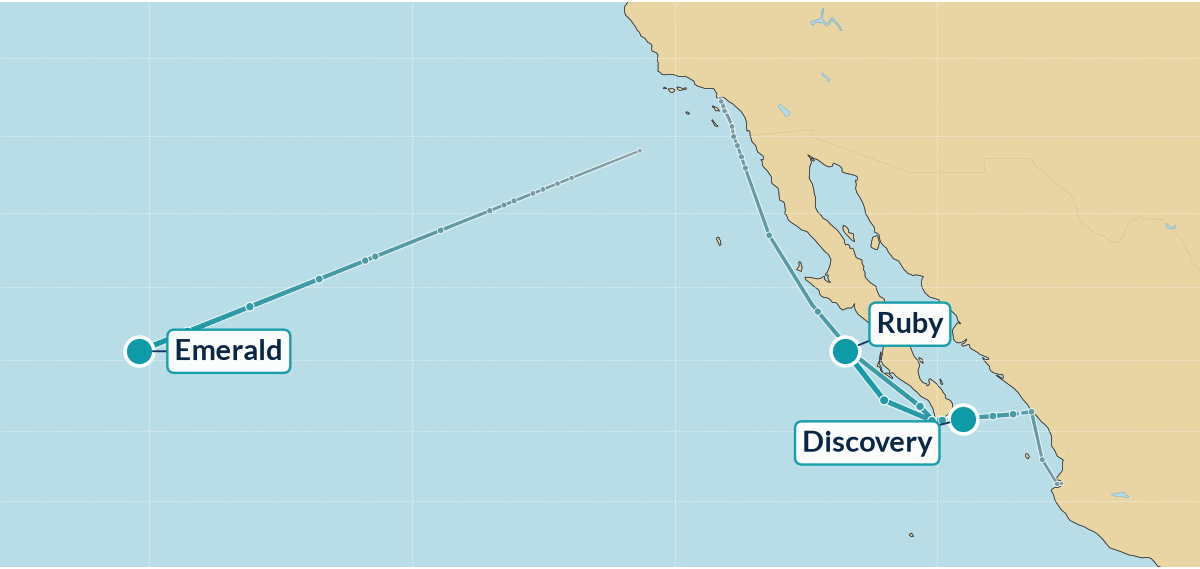
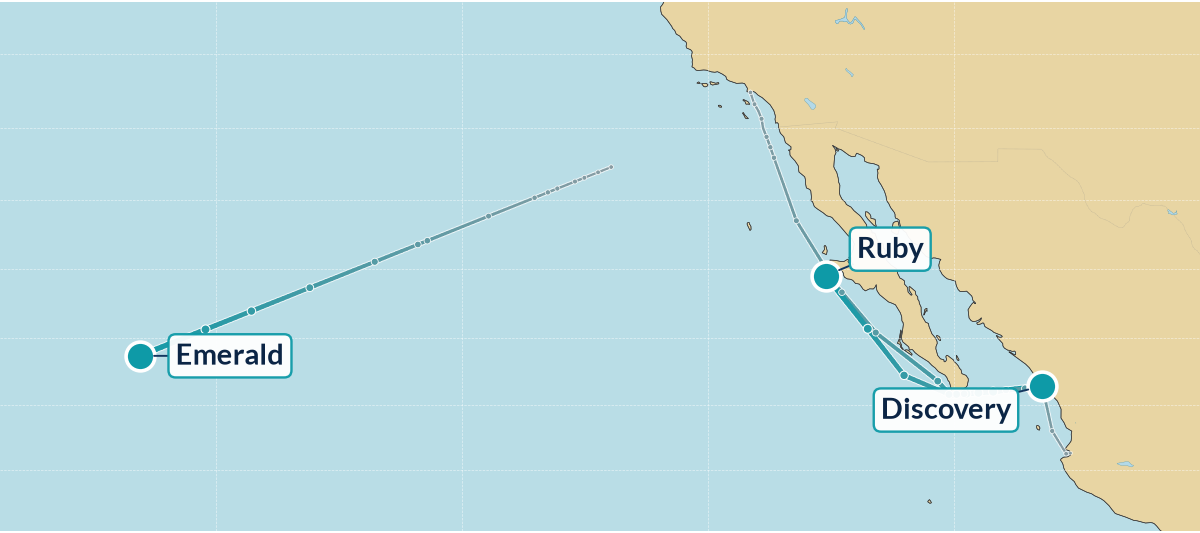
Update 10/20 08:00 PT

diff --git a/index.html b/index.html
@@ -1,47 +1,47 @@
-<!DOCTYPE html><html lang="en"><head><meta charset="utf-8"><meta name="viewport" content="width=device-width, initial-scale=1"><meta http-equiv="refresh" content="1800"><meta name="description" content="Live Princess Cruises fleet tracker"><title>Princess Patter — Monday, October 19, 2026</title></head>
+<!DOCTYPE html><html lang="en"><head><meta charset="utf-8"><meta name="viewport" content="width=device-width, initial-scale=1"><meta http-equiv="refresh" content="1800"><meta name="description" content="Live Princess Cruises fleet tracker"><title>Princess Patter — Tuesday, October 20, 2026</title></head>
 <body style="margin:0;padding:0;background-color:#dee2e8;">
-<div style="display:none;max-height:0;overflow:hidden;opacity:0;color:#dee2e8;font-size:1px;line-height:1px;">Monday, October 19, 2026 — 11:00pm PT | 17 ships | 13 at sea, 4 in port</div>
+<div style="display:none;max-height:0;overflow:hidden;opacity:0;color:#dee2e8;font-size:1px;line-height:1px;">Tuesday, October 20, 2026 — 8:00am PT | 17 ships | 8 at sea, 9 in port</div>
 <table role="presentation" width="100%" cellpadding="0" cellspacing="0" border="0" bgcolor="#dee2e8" style="background-color:#dee2e8;border-collapse:collapse;"><tr><td align="center" style="padding:16px 8px;">
 <table role="presentation" width="100%" cellpadding="0" cellspacing="0" border="0" bgcolor="#fdfdfb" style="width:100%;max-width:900px;background-color:#fdfdfb;border-collapse:collapse;border:1px solid #d6dae0;">
 <tr><td bgcolor="#1d3a6b" align="left" style="background-color:#1d3a6b;padding:24px 28px 24px 28px;"><div style="font-family:Georgia, 'Times New Roman', Times, serif;font-size:40px;line-height:46px;color:#ffffff;letter-spacing:0.5px;"><span style="color:#a8b6e2;">≋</span>&nbsp;Princess Patter</div></td></tr>
-<tr><td style="padding:0;"><table role="presentation" width="100%" cellpadding="0" cellspacing="0" border="0" style="border-collapse:collapse;"><tr><td height="5" bgcolor="#6a5aa8" style="background-color:#6a5aa8;height:5px;font-size:0;line-height:0;width:60%;">&nbsp;</td><td height="5" bgcolor="#2f6db5" style="background-color:#2f6db5;height:5px;font-size:0;line-height:0;width:40%;">&nbsp;</td></tr></table></td></tr><tr><td bgcolor="#1d3a6b" style="background:linear-gradient(#1d3a6b,#2f6db5);padding:10px 16px 14px;text-align:center;"><img src="regal.png?v=202610200700" alt="Regal Princess" style="width:100%;max-width:640px;height:auto;display:block;margin:0 auto;"></td></tr>
+<tr><td style="padding:0;"><table role="presentation" width="100%" cellpadding="0" cellspacing="0" border="0" style="border-collapse:collapse;"><tr><td height="5" bgcolor="#6a5aa8" style="background-color:#6a5aa8;height:5px;font-size:0;line-height:0;width:60%;">&nbsp;</td><td height="5" bgcolor="#2f6db5" style="background-color:#2f6db5;height:5px;font-size:0;line-height:0;width:40%;">&nbsp;</td></tr></table></td></tr><tr><td bgcolor="#1d3a6b" style="background:linear-gradient(#1d3a6b,#2f6db5);padding:10px 16px 14px;text-align:center;"><img src="regal.png?v=202610200800" alt="Regal Princess" style="width:100%;max-width:640px;height:auto;display:block;margin:0 auto;"></td></tr>
 <tr><td style="padding:22px 20px 6px 20px;">
-<div style="font-family:Georgia, 'Times New Roman', Times, serif;font-style:italic;font-size:20px;line-height:26px;color:#2f6db5;">Good evening!</div>
-<div style="font-family:Georgia, 'Times New Roman', Times, serif;font-weight:bold;font-size:26px;line-height:32px;color:#1d3a6b;padding-top:6px;">Monday, October 19, 2026</div>
-<div style="font-family:Helvetica, Arial, sans-serif;font-size:16px;line-height:22px;color:#2f6db5;padding-top:4px;">11:00pm PT | 17 ships | 13 at sea, 4 in port</div>
-</td></tr><tr><td style="padding:14px 20px 0 20px;"><div style="font-family:Georgia, 'Times New Roman', Times, serif;font-style:italic;font-weight:bold;font-size:18px;color:#295aa0;padding:0 4px 4px;border-bottom:1px solid #295aa0;">pacific map</div><a href="map.png?v=202610200700"><img src="map.png?v=202610200700" alt="Pacific fleet map" style="width:100%;height:auto;display:block;margin-top:8px;border-radius:12px;border:2px solid #c8dee2;"></a></td></tr>
+<div style="font-family:Georgia, 'Times New Roman', Times, serif;font-style:italic;font-size:20px;line-height:26px;color:#2f6db5;">Good morning!</div>
+<div style="font-family:Georgia, 'Times New Roman', Times, serif;font-weight:bold;font-size:26px;line-height:32px;color:#1d3a6b;padding-top:6px;">Tuesday, October 20, 2026</div>
+<div style="font-family:Helvetica, Arial, sans-serif;font-size:16px;line-height:22px;color:#2f6db5;padding-top:4px;">8:00am PT | 17 ships | 8 at sea, 9 in port</div>
+</td></tr><tr><td style="padding:14px 20px 0 20px;"><div style="font-family:Georgia, 'Times New Roman', Times, serif;font-style:italic;font-weight:bold;font-size:18px;color:#295aa0;padding:0 4px 4px;border-bottom:1px solid #295aa0;">pacific map</div><a href="map.png?v=202610200800"><img src="map.png?v=202610200800" alt="Pacific fleet map" style="width:100%;height:auto;display:block;margin-top:8px;border-radius:12px;border:2px solid #c8dee2;"></a></td></tr>
 <tr><td style="padding:14px 20px 4px 20px;">
 <table role="presentation" width="100%" cellpadding="0" cellspacing="0" border="0" style="border-collapse:collapse;width:100%;font-family:Helvetica, Arial, sans-serif;font-size:15px;line-height:20px;color:#262c38;">
 <tr bgcolor="#2f6db5" style="background-color:#2f6db5;"><td style="font-size:14px;line-height:18px;font-weight:bold;color:#ffffff;text-align:left;padding:9px 8px;padding-left:10px;" colspan="2">Ship</td><td style="font-size:14px;line-height:18px;font-weight:bold;color:#ffffff;text-align:left;padding:9px 8px;">Where</td><td style="font-size:14px;line-height:18px;font-weight:bold;color:#ffffff;text-align:left;padding:9px 8px;">Next Port</td></tr>
 <tr><td colspan="4" style="padding:14px 4px 4px 4px;border-bottom:1px solid #295aa0;font-family:Georgia, 'Times New Roman', Times, serif;font-style:italic;font-weight:bold;font-size:18px;line-height:22px;color:#295aa0;">canada &amp; new england</td></tr>
-<tr bgcolor="#eef0f3" style="background-color:#eef0f3;"><td width="18" style="padding:7px 0 7px 8px;vertical-align:top;width:18px;color:#1a9a9a;font-size:18px;">&nbsp;</td><td style="padding:7px 8px;vertical-align:top;"><b style="color:#1d3a6b;">Majestic</b></td><td style="padding:7px 8px;vertical-align:top;">At Sea <span style="white-space:nowrap;font-size:12px;color:#707884;" title="Forecast high/low">☁&thinsp;53°</span> <span style="font-size:12px;color:#707884;"><span style="white-space:nowrap;">🌊 6 ft</span> &middot; <span style="white-space:nowrap;">💨 NNE 18 kt</span> &middot; <span style="white-space:nowrap;">🚢 11.5 kn</span></span></td><td style="padding:7px 8px;vertical-align:top;">Portland <span style="white-space:nowrap;font-size:12px;color:#707884;" title="Forecast high/low">☁&thinsp;69°/48°</span> <span style="font-size:13px;color:#707884;">(10/20 4am)</span></td></tr>
-<tr bgcolor="#ffffff" style="background-color:#ffffff;"><td width="18" style="padding:7px 0 7px 8px;vertical-align:top;width:18px;color:#1a9a9a;font-size:18px;">&nbsp;</td><td style="padding:7px 8px;vertical-align:top;"><b style="color:#1d3a6b;">Sapphire</b></td><td style="padding:7px 8px;vertical-align:top;">At Sea <span style="white-space:nowrap;font-size:12px;color:#707884;" title="Forecast high/low">☀&thinsp;47°</span> <span style="font-size:12px;color:#707884;"><span style="white-space:nowrap;">🌊 3 ft</span> &middot; <span style="white-space:nowrap;">💨 NW 12 kt</span> &middot; <span style="white-space:nowrap;">🚢 12.8 kn</span></span></td><td style="padding:7px 8px;vertical-align:top;">Saguenay <span style="white-space:nowrap;font-size:12px;color:#707884;" title="Forecast high/low">☁&thinsp;47°/32°</span> <span style="font-size:13px;color:#707884;">(10/21 5am)</span></td></tr>
+<tr bgcolor="#eef0f3" style="background-color:#eef0f3;"><td width="18" style="padding:7px 0 7px 8px;vertical-align:top;width:18px;color:#1a9a9a;font-size:18px;">&nbsp;</td><td style="padding:7px 8px;vertical-align:top;"><b style="color:#1d3a6b;">Majestic</b></td><td style="padding:7px 8px;vertical-align:top;">Portland <span style="white-space:nowrap;font-size:12px;color:#707884;" title="Forecast high/low">☁&thinsp;48°</span> <span style="font-size:13px;color:#707884;">(2pm)</span></td><td style="padding:7px 8px;vertical-align:top;">Saint John <span style="white-space:nowrap;font-size:12px;color:#707884;" title="Forecast high/low">☁&thinsp;51°/35°</span> <span style="font-size:13px;color:#707884;">(10/21 4:45am)</span></td></tr>
+<tr bgcolor="#ffffff" style="background-color:#ffffff;"><td width="18" style="padding:7px 0 7px 8px;vertical-align:top;width:18px;color:#1a9a9a;font-size:18px;">&nbsp;</td><td style="padding:7px 8px;vertical-align:top;"><b style="color:#1d3a6b;">Sapphire</b></td><td style="padding:7px 8px;vertical-align:top;">At Sea <span style="white-space:nowrap;font-size:12px;color:#707884;" title="Forecast high/low">☀&thinsp;45°</span> <span style="font-size:12px;color:#707884;"><span style="white-space:nowrap;">🌊 5 ft</span> &middot; <span style="white-space:nowrap;">💨 WNW 17 kt</span> &middot; <span style="white-space:nowrap;">🚢 17.0 kn</span></span></td><td style="padding:7px 8px;vertical-align:top;">Saguenay <span style="white-space:nowrap;font-size:12px;color:#707884;" title="Forecast high/low">☁&thinsp;46°/32°</span> <span style="font-size:13px;color:#707884;">(10/21 5am)</span></td></tr>
 <tr><td colspan="4" style="padding:14px 4px 4px 4px;border-bottom:1px solid #295aa0;font-family:Georgia, 'Times New Roman', Times, serif;font-style:italic;font-weight:bold;font-size:18px;line-height:22px;color:#295aa0;">caribbean</td></tr>
-<tr bgcolor="#eef0f3" style="background-color:#eef0f3;"><td width="18" style="padding:7px 0 7px 8px;vertical-align:top;width:18px;color:#1a9a9a;font-size:18px;">&nbsp;</td><td style="padding:7px 8px;vertical-align:top;"><b style="color:#1d3a6b;">Caribbean</b></td><td style="padding:7px 8px;vertical-align:top;">At Sea <span style="white-space:nowrap;font-size:12px;color:#707884;" title="Forecast high/low">☁&thinsp;82°</span> <span style="font-size:12px;color:#707884;"><span style="white-space:nowrap;">🌊 2 ft</span> &middot; <span style="white-space:nowrap;">💨 NE 11 kt</span> &middot; <span style="white-space:nowrap;">🚢 13.3 kn</span></span></td><td style="padding:7px 8px;vertical-align:top;">Oranjestad <span style="white-space:nowrap;font-size:12px;color:#707884;" title="Forecast high/low">⛈&thinsp;86°/78°</span> <span style="font-size:13px;color:#707884;">(10/22 6am)</span></td></tr>
-<tr bgcolor="#ffffff" style="background-color:#ffffff;"><td width="18" style="padding:7px 0 7px 8px;vertical-align:top;width:18px;color:#1a9a9a;font-size:18px;">&nbsp;</td><td style="padding:7px 8px;vertical-align:top;"><b style="color:#1d3a6b;">Coral</b></td><td style="padding:7px 8px;vertical-align:top;">At Sea <span style="white-space:nowrap;font-size:12px;color:#707884;" title="Forecast high/low">☀&thinsp;83°</span> <span style="font-size:12px;color:#707884;"><span style="white-space:nowrap;">🌊 2 ft</span> &middot; <span style="white-space:nowrap;">💨 ESE 9 kt</span> &middot; <span style="white-space:nowrap;">🚢 9.6 kn</span></span></td><td style="padding:7px 8px;vertical-align:top;">Fort-de-France <span style="white-space:nowrap;font-size:12px;color:#707884;" title="Forecast high/low">🌦&thinsp;88°/77°</span> <span style="font-size:13px;color:#707884;">(10/20 5am)</span></td></tr>
-<tr bgcolor="#eef0f3" style="background-color:#eef0f3;"><td width="18" style="padding:7px 0 7px 8px;vertical-align:top;width:18px;color:#1a9a9a;font-size:18px;">&nbsp;</td><td style="padding:7px 8px;vertical-align:top;"><b style="color:#1d3a6b;">Regal</b></td><td style="padding:7px 8px;vertical-align:top;">At Sea <span style="white-space:nowrap;font-size:12px;color:#707884;" title="Forecast high/low">☀&thinsp;84°</span> <span style="font-size:12px;color:#707884;"><span style="white-space:nowrap;">🌊 5 ft</span> &middot; <span style="white-space:nowrap;">💨 ENE 7 kt</span> &middot; <span style="white-space:nowrap;">🚢 7.9 kn</span></span></td><td style="padding:7px 8px;vertical-align:top;">Amber Cove <span style="font-size:13px;color:#707884;">(10/21 5am)</span></td></tr>
-<tr bgcolor="#ffffff" style="background-color:#ffffff;"><td width="18" style="padding:7px 0 7px 8px;vertical-align:top;width:18px;color:#1a9a9a;font-size:18px;">&nbsp;</td><td style="padding:7px 8px;vertical-align:top;"><b style="color:#1d3a6b;">Star</b></td><td style="padding:7px 8px;vertical-align:top;">At Sea <span style="white-space:nowrap;font-size:12px;color:#707884;" title="Forecast high/low">☁&thinsp;80°</span> <span style="font-size:12px;color:#707884;"><span style="white-space:nowrap;">🌊 6 ft</span> &middot; <span style="white-space:nowrap;">💨 NE 21 kt</span> &middot; <span style="white-space:nowrap;">🚢 16.2 kn</span></span></td><td style="padding:7px 8px;vertical-align:top;">Fort Lauderdale <span style="white-space:nowrap;font-size:12px;color:#707884;" title="Forecast high/low">☁&thinsp;81°/70°</span> <span style="font-size:13px;color:#707884;">(10/20 3am)</span></td></tr>
+<tr bgcolor="#eef0f3" style="background-color:#eef0f3;"><td width="18" style="padding:7px 0 7px 8px;vertical-align:top;width:18px;color:#1a9a9a;font-size:18px;">&nbsp;</td><td style="padding:7px 8px;vertical-align:top;"><b style="color:#1d3a6b;">Caribbean</b></td><td style="padding:7px 8px;vertical-align:top;">At Sea <span style="white-space:nowrap;font-size:12px;color:#707884;" title="Forecast high/low">🌦&thinsp;82°</span> <span style="font-size:12px;color:#707884;"><span style="white-space:nowrap;">🌊 3 ft</span> &middot; <span style="white-space:nowrap;">💨 NE 4 kt</span> &middot; <span style="white-space:nowrap;">🚢 13.8 kn</span></span></td><td style="padding:7px 8px;vertical-align:top;">Oranjestad <span style="white-space:nowrap;font-size:12px;color:#707884;" title="Forecast high/low">⛈&thinsp;86°/78°</span> <span style="font-size:13px;color:#707884;">(10/22 6am)</span></td></tr>
+<tr bgcolor="#ffffff" style="background-color:#ffffff;"><td width="18" style="padding:7px 0 7px 8px;vertical-align:top;width:18px;color:#1a9a9a;font-size:18px;">&nbsp;</td><td style="padding:7px 8px;vertical-align:top;"><b style="color:#1d3a6b;">Coral</b></td><td style="padding:7px 8px;vertical-align:top;">St. John&#x27;s <span style="white-space:nowrap;font-size:12px;color:#707884;" title="Forecast high/low">🌦&thinsp;86°</span> <span style="font-size:13px;color:#707884;">(10/20)</span></td><td style="padding:7px 8px;vertical-align:top;">Roseau <span style="white-space:nowrap;font-size:12px;color:#707884;" title="Forecast high/low">🌦&thinsp;88°/79°</span> <span style="font-size:13px;color:#707884;">(10/21 4am)</span></td></tr>
+<tr bgcolor="#eef0f3" style="background-color:#eef0f3;"><td width="18" style="padding:7px 0 7px 8px;vertical-align:top;width:18px;color:#1a9a9a;font-size:18px;">&nbsp;</td><td style="padding:7px 8px;vertical-align:top;"><b style="color:#1d3a6b;">Regal</b></td><td style="padding:7px 8px;vertical-align:top;">At Sea <span style="white-space:nowrap;font-size:12px;color:#707884;" title="Forecast high/low">🌦&thinsp;80°</span> <span style="font-size:12px;color:#707884;"><span style="white-space:nowrap;">🌊 3 ft</span> &middot; <span style="white-space:nowrap;">💨 E 5 kt</span> &middot; <span style="white-space:nowrap;">🚢 7.9 kn</span></span></td><td style="padding:7px 8px;vertical-align:top;">Amber Cove <span style="font-size:13px;color:#707884;">(10/21 5am)</span></td></tr>
+<tr bgcolor="#ffffff" style="background-color:#ffffff;"><td width="18" style="padding:7px 0 7px 8px;vertical-align:top;width:18px;color:#1a9a9a;font-size:18px;">&nbsp;</td><td style="padding:7px 8px;vertical-align:top;"><b style="color:#1d3a6b;">Star</b></td><td style="padding:7px 8px;vertical-align:top;">Fort Lauderdale <span style="white-space:nowrap;font-size:12px;color:#707884;" title="Forecast high/low">☀&thinsp;79°</span> <span style="font-size:13px;color:#707884;">(12pm)</span></td><td style="padding:7px 8px;vertical-align:top;">Grand Turk <span style="white-space:nowrap;font-size:12px;color:#707884;" title="Forecast high/low">🌦&thinsp;83°/79°</span> <span style="font-size:13px;color:#707884;">(10/22 5am)</span></td></tr>
 <tr><td colspan="4" style="padding:14px 4px 4px 4px;border-bottom:1px solid #295aa0;font-family:Georgia, 'Times New Roman', Times, serif;font-style:italic;font-weight:bold;font-size:18px;line-height:22px;color:#295aa0;">hawaii</td></tr>
-<tr bgcolor="#eef0f3" style="background-color:#eef0f3;"><td width="18" style="padding:7px 0 7px 8px;vertical-align:top;width:18px;color:#1a9a9a;font-size:18px;">&nbsp;</td><td style="padding:7px 8px;vertical-align:top;"><b style="color:#1d3a6b;">Emerald</b></td><td style="padding:7px 8px;vertical-align:top;">At Sea <span style="white-space:nowrap;font-size:12px;color:#707884;" title="Forecast high/low">🌙&thinsp;71°</span> <span style="font-size:12px;color:#707884;"><span style="white-space:nowrap;">🌊 7 ft</span> &middot; <span style="white-space:nowrap;">💨 NE 14 kt</span> &middot; <span style="white-space:nowrap;">🚢 17.7 kn</span></span></td><td style="padding:7px 8px;vertical-align:top;">Hilo <span style="white-space:nowrap;font-size:12px;color:#707884;" title="Forecast high/low">🌦&thinsp;79°/67°</span> <span style="font-size:13px;color:#707884;">(10/22 11am)</span></td></tr>
+<tr bgcolor="#eef0f3" style="background-color:#eef0f3;"><td width="18" style="padding:7px 0 7px 8px;vertical-align:top;width:18px;color:#1a9a9a;font-size:18px;">&nbsp;</td><td style="padding:7px 8px;vertical-align:top;"><b style="color:#1d3a6b;">Emerald</b></td><td style="padding:7px 8px;vertical-align:top;">At Sea <span style="white-space:nowrap;font-size:12px;color:#707884;" title="Forecast high/low">🌙&thinsp;72°</span> <span style="font-size:12px;color:#707884;"><span style="white-space:nowrap;">🌊 7 ft</span> &middot; <span style="white-space:nowrap;">💨 NE 16 kt</span> &middot; <span style="white-space:nowrap;">🚢 17.8 kn</span></span></td><td style="padding:7px 8px;vertical-align:top;">Hilo <span style="white-space:nowrap;font-size:12px;color:#707884;" title="Forecast high/low">🌦&thinsp;79°/67°</span> <span style="font-size:13px;color:#707884;">(10/22 11am)</span></td></tr>
 <tr><td colspan="4" style="padding:14px 4px 4px 4px;border-bottom:1px solid #295aa0;font-family:Georgia, 'Times New Roman', Times, serif;font-style:italic;font-weight:bold;font-size:18px;line-height:22px;color:#295aa0;">mexican riviera</td></tr>
-<tr bgcolor="#eef0f3" style="background-color:#eef0f3;"><td width="18" style="padding:7px 0 7px 8px;vertical-align:top;width:18px;color:#1a9a9a;font-size:18px;">&nbsp;</td><td style="padding:7px 8px;vertical-align:top;"><b style="color:#1d3a6b;">Discovery</b></td><td style="padding:7px 8px;vertical-align:top;">At Sea <span style="white-space:nowrap;font-size:12px;color:#707884;" title="Forecast high/low">☀&thinsp;86°</span> <span style="font-size:12px;color:#707884;"><span style="white-space:nowrap;">🌊 6 ft</span> &middot; <span style="white-space:nowrap;">💨 N 12 kt</span> &middot; <span style="white-space:nowrap;">🚢 18.5 kn</span></span></td><td style="padding:7px 8px;vertical-align:top;">Mazatlan <span style="white-space:nowrap;font-size:12px;color:#707884;" title="Forecast high/low">⛅&thinsp;92°/79°</span> <span style="font-size:13px;color:#707884;">(10/20 8am)</span></td></tr>
-<tr bgcolor="#ffffff" style="background-color:#ffffff;"><td width="18" style="padding:7px 0 7px 8px;vertical-align:top;width:18px;color:#1a9a9a;font-size:18px;">&nbsp;</td><td style="padding:7px 8px;vertical-align:top;"><b style="color:#1d3a6b;">Ruby</b></td><td style="padding:7px 8px;vertical-align:top;">At Sea <span style="white-space:nowrap;font-size:12px;color:#707884;" title="Forecast high/low">⛅&thinsp;80°</span> <span style="font-size:12px;color:#707884;"><span style="white-space:nowrap;">🌊 6 ft</span> &middot; <span style="white-space:nowrap;">💨 NW 5 kt</span> &middot; <span style="white-space:nowrap;">🚢 18.6 kn</span></span></td><td style="padding:7px 8px;vertical-align:top;">Ensenada <span style="white-space:nowrap;font-size:12px;color:#707884;" title="Forecast high/low">🌧&thinsp;76°/61°</span> <span style="font-size:13px;color:#707884;">(~10/21)</span></td></tr>
+<tr bgcolor="#eef0f3" style="background-color:#eef0f3;"><td width="18" style="padding:7px 0 7px 8px;vertical-align:top;width:18px;color:#1a9a9a;font-size:18px;">&nbsp;</td><td style="padding:7px 8px;vertical-align:top;"><b style="color:#1d3a6b;">Discovery</b></td><td style="padding:7px 8px;vertical-align:top;">Mazatlan <span style="white-space:nowrap;font-size:12px;color:#707884;" title="Forecast high/low">☀&thinsp;84°</span> <span style="font-size:13px;color:#707884;">(5pm)</span></td><td style="padding:7px 8px;vertical-align:top;">Puerto Vallarta <span style="white-space:nowrap;font-size:12px;color:#707884;" title="Forecast high/low">🌦&thinsp;87°/76°</span> <span style="font-size:13px;color:#707884;">(10/21 5am)</span></td></tr>
+<tr bgcolor="#ffffff" style="background-color:#ffffff;"><td width="18" style="padding:7px 0 7px 8px;vertical-align:top;width:18px;color:#1a9a9a;font-size:18px;">&nbsp;</td><td style="padding:7px 8px;vertical-align:top;"><b style="color:#1d3a6b;">Ruby</b></td><td style="padding:7px 8px;vertical-align:top;">At Sea <span style="white-space:nowrap;font-size:12px;color:#707884;" title="Forecast high/low">☁&thinsp;76°</span> <span style="font-size:12px;color:#707884;"><span style="white-space:nowrap;">🌊 6 ft</span> &middot; <span style="white-space:nowrap;">💨 NNW 4 kt</span> &middot; <span style="white-space:nowrap;">🚢 18.5 kn</span></span></td><td style="padding:7px 8px;vertical-align:top;">Ensenada <span style="white-space:nowrap;font-size:12px;color:#707884;" title="Forecast high/low">🌦&thinsp;74°/60°</span> <span style="font-size:13px;color:#707884;">(~10/21)</span></td></tr>
 <tr><td colspan="4" style="padding:14px 4px 4px 4px;border-bottom:1px solid #295aa0;font-family:Georgia, 'Times New Roman', Times, serif;font-style:italic;font-weight:bold;font-size:18px;line-height:22px;color:#295aa0;">asia</td></tr>
-<tr bgcolor="#eef0f3" style="background-color:#eef0f3;"><td width="18" style="padding:7px 0 7px 8px;vertical-align:top;width:18px;color:#1a9a9a;font-size:18px;">&nbsp;</td><td style="padding:7px 8px;vertical-align:top;"><b style="color:#1d3a6b;">Diamond</b></td><td style="padding:7px 8px;vertical-align:top;">At Sea <span style="white-space:nowrap;font-size:12px;color:#707884;" title="Forecast high/low">🌙&thinsp;80°</span> <span style="font-size:12px;color:#707884;"><span style="white-space:nowrap;">🌊 7 ft</span> &middot; <span style="white-space:nowrap;">💨 SSW 17 kt</span> &middot; <span style="white-space:nowrap;">🚢 15.5 kn</span></span></td><td style="padding:7px 8px;vertical-align:top;">Nagasaki <span style="white-space:nowrap;font-size:12px;color:#707884;" title="Forecast high/low">⛅&thinsp;81°/70°</span> <span style="font-size:13px;color:#707884;">(10/20 6pm)</span></td></tr>
+<tr bgcolor="#eef0f3" style="background-color:#eef0f3;"><td width="18" style="padding:7px 0 7px 8px;vertical-align:top;width:18px;color:#1a9a9a;font-size:18px;">&nbsp;</td><td style="padding:7px 8px;vertical-align:top;"><b style="color:#1d3a6b;">Diamond</b></td><td style="padding:7px 8px;vertical-align:top;">At Sea <span style="white-space:nowrap;font-size:12px;color:#707884;" title="Forecast high/low">🌧&thinsp;79°</span> <span style="font-size:12px;color:#707884;"><span style="white-space:nowrap;">🌊 5 ft</span> &middot; <span style="white-space:nowrap;">💨 S 10 kt</span> &middot; <span style="white-space:nowrap;">🚢 14.9 kn</span></span></td><td style="padding:7px 8px;vertical-align:top;">Nagasaki <span style="white-space:nowrap;font-size:12px;color:#707884;" title="Forecast high/low">⛅&thinsp;81°/70°</span> <span style="font-size:13px;color:#707884;">(10/20 6pm)</span></td></tr>
 <tr bgcolor="#ffffff" style="background-color:#ffffff;"><td width="18" style="padding:7px 0 7px 8px;vertical-align:top;width:18px;color:#1a9a9a;font-size:18px;">&nbsp;</td><td style="padding:7px 8px;vertical-align:top;"><b style="color:#1d3a6b;">Royal</b></td><td style="padding:7px 8px;vertical-align:top;">Singapore <span style="font-size:13px;color:#707884;">(Drydock)</span></td><td style="padding:7px 8px;vertical-align:top;">Drydock <span style="font-size:13px;color:#707884;">(to 11/1)</span></td></tr>
 <tr><td colspan="4" style="padding:14px 4px 4px 4px;border-bottom:1px solid #295aa0;font-family:Georgia, 'Times New Roman', Times, serif;font-style:italic;font-weight:bold;font-size:18px;line-height:22px;color:#295aa0;">australia &amp; new zealand</td></tr>
-<tr bgcolor="#eef0f3" style="background-color:#eef0f3;"><td width="18" style="padding:7px 0 7px 8px;vertical-align:top;width:18px;color:#1a9a9a;font-size:18px;">&nbsp;</td><td style="padding:7px 8px;vertical-align:top;"><b style="color:#1d3a6b;">Crown</b></td><td style="padding:7px 8px;vertical-align:top;">At Sea <span style="white-space:nowrap;font-size:12px;color:#707884;" title="Forecast high/low">🌙&thinsp;78°</span> <span style="font-size:12px;color:#707884;"><span style="white-space:nowrap;">🌊 6 ft</span> &middot; <span style="white-space:nowrap;">💨 SW 12 kt</span> &middot; <span style="white-space:nowrap;">🚢 18.5 kn</span></span></td><td style="padding:7px 8px;vertical-align:top;">Broome <span style="white-space:nowrap;font-size:12px;color:#707884;" title="Forecast high/low">☀&thinsp;87°/80°</span> <span style="font-size:13px;color:#707884;">(10/20 7pm)</span></td></tr>
+<tr bgcolor="#eef0f3" style="background-color:#eef0f3;"><td width="18" style="padding:7px 0 7px 8px;vertical-align:top;width:18px;color:#1a9a9a;font-size:18px;">&nbsp;</td><td style="padding:7px 8px;vertical-align:top;"><b style="color:#1d3a6b;">Crown</b></td><td style="padding:7px 8px;vertical-align:top;">At Sea <span style="white-space:nowrap;font-size:12px;color:#707884;" title="Forecast high/low">🌙&thinsp;83°</span> <span style="font-size:12px;color:#707884;"><span style="white-space:nowrap;">🌊 6 ft</span> &middot; <span style="white-space:nowrap;">💨 SSW 15 kt</span> &middot; <span style="white-space:nowrap;">🚢 18.5 kn</span></span></td><td style="padding:7px 8px;vertical-align:top;">Broome <span style="white-space:nowrap;font-size:12px;color:#707884;" title="Forecast high/low">☀&thinsp;87°/80°</span> <span style="font-size:13px;color:#707884;">(10/20 7pm)</span></td></tr>
 <tr><td colspan="4" style="padding:14px 4px 4px 4px;border-bottom:1px solid #295aa0;font-family:Georgia, 'Times New Roman', Times, serif;font-style:italic;font-weight:bold;font-size:18px;line-height:22px;color:#295aa0;">mediterranean</td></tr>
-<tr bgcolor="#eef0f3" style="background-color:#eef0f3;"><td width="18" style="padding:7px 0 7px 8px;vertical-align:top;width:18px;color:#1a9a9a;font-size:18px;">&nbsp;</td><td style="padding:7px 8px;vertical-align:top;"><b style="color:#1d3a6b;">Enchanted</b></td><td style="padding:7px 8px;vertical-align:top;">Civitavecchia <span style="white-space:nowrap;font-size:12px;color:#707884;" title="Forecast high/low">☁&thinsp;71°</span> <span style="font-size:13px;color:#707884;">(10/20 9am)</span></td><td style="padding:7px 8px;vertical-align:top;">Alghero <span style="white-space:nowrap;font-size:12px;color:#707884;" title="Forecast high/low">⛈&thinsp;80°/62°</span> <span style="font-size:13px;color:#707884;">(10/20 11pm)</span></td></tr>
-<tr bgcolor="#ffffff" style="background-color:#ffffff;"><td width="18" style="padding:7px 0 7px 8px;vertical-align:top;width:18px;color:#1a9a9a;font-size:18px;">&nbsp;</td><td style="padding:7px 8px;vertical-align:top;"><b style="color:#1d3a6b;">Island</b></td><td style="padding:7px 8px;vertical-align:top;">Palma <span style="white-space:nowrap;font-size:12px;color:#707884;" title="Forecast high/low">☁&thinsp;69°</span> <span style="font-size:13px;color:#707884;">(10/20 9am)</span></td><td style="padding:7px 8px;vertical-align:top;">Barcelona <span style="white-space:nowrap;font-size:12px;color:#707884;" title="Forecast high/low">☁&thinsp;68°/57°</span> <span style="font-size:13px;color:#707884;">(10/20 10pm)</span></td></tr>
-<tr bgcolor="#eef0f3" style="background-color:#eef0f3;"><td width="18" style="padding:7px 0 7px 8px;vertical-align:top;width:18px;color:#1a9a9a;font-size:18px;">&nbsp;</td><td style="padding:7px 8px;vertical-align:top;"><b style="color:#1d3a6b;">Sun</b></td><td style="padding:7px 8px;vertical-align:top;">Chania <span style="white-space:nowrap;font-size:12px;color:#707884;" title="Forecast high/low">☀&thinsp;71°</span> <span style="font-size:13px;color:#707884;">(10/20 8am)</span></td><td style="padding:7px 8px;vertical-align:top;">Kusadasi <span style="white-space:nowrap;font-size:12px;color:#707884;" title="Forecast high/low">☁&thinsp;72°/57°</span> <span style="font-size:13px;color:#707884;">(10/21 9pm)</span></td></tr>
+<tr bgcolor="#eef0f3" style="background-color:#eef0f3;"><td width="18" style="padding:7px 0 7px 8px;vertical-align:top;width:18px;color:#1a9a9a;font-size:18px;">&nbsp;</td><td style="padding:7px 8px;vertical-align:top;"><b style="color:#1d3a6b;">Enchanted</b></td><td style="padding:7px 8px;vertical-align:top;">Civitavecchia <span style="white-space:nowrap;font-size:12px;color:#707884;" title="Forecast high/low">☁&thinsp;71°</span> <span style="font-size:13px;color:#707884;">(9am)</span></td><td style="padding:7px 8px;vertical-align:top;">Alghero <span style="white-space:nowrap;font-size:12px;color:#707884;" title="Forecast high/low">⛈&thinsp;80°/62°</span> <span style="font-size:13px;color:#707884;">(10/20 11pm)</span></td></tr>
+<tr bgcolor="#ffffff" style="background-color:#ffffff;"><td width="18" style="padding:7px 0 7px 8px;vertical-align:top;width:18px;color:#1a9a9a;font-size:18px;">&nbsp;</td><td style="padding:7px 8px;vertical-align:top;"><b style="color:#1d3a6b;">Island</b></td><td style="padding:7px 8px;vertical-align:top;">Palma <span style="white-space:nowrap;font-size:12px;color:#707884;" title="Forecast high/low">☁&thinsp;70°</span> <span style="font-size:13px;color:#707884;">(9am)</span></td><td style="padding:7px 8px;vertical-align:top;">Barcelona <span style="white-space:nowrap;font-size:12px;color:#707884;" title="Forecast high/low">☁&thinsp;68°/57°</span> <span style="font-size:13px;color:#707884;">(10/20 10pm)</span></td></tr>
+<tr bgcolor="#eef0f3" style="background-color:#eef0f3;"><td width="18" style="padding:7px 0 7px 8px;vertical-align:top;width:18px;color:#1a9a9a;font-size:18px;">&nbsp;</td><td style="padding:7px 8px;vertical-align:top;"><b style="color:#1d3a6b;">Sun</b></td><td style="padding:7px 8px;vertical-align:top;">Chania <span style="white-space:nowrap;font-size:12px;color:#707884;" title="Forecast high/low">☀&thinsp;70°</span> <span style="font-size:13px;color:#707884;">(8am)</span></td><td style="padding:7px 8px;vertical-align:top;">Kusadasi <span style="white-space:nowrap;font-size:12px;color:#707884;" title="Forecast high/low">☁&thinsp;72°/57°</span> <span style="font-size:13px;color:#707884;">(10/21 9pm)</span></td></tr>
 <tr><td colspan="4" style="padding:14px 4px 4px 4px;border-bottom:1px solid #295aa0;font-family:Georgia, 'Times New Roman', Times, serif;font-style:italic;font-weight:bold;font-size:18px;line-height:22px;color:#295aa0;">northern europe</td></tr>
-<tr bgcolor="#eef0f3" style="background-color:#eef0f3;"><td width="18" style="padding:7px 0 7px 8px;vertical-align:top;width:18px;color:#1a9a9a;font-size:18px;">&nbsp;</td><td style="padding:7px 8px;vertical-align:top;"><b style="color:#1d3a6b;">Sky</b></td><td style="padding:7px 8px;vertical-align:top;">At Sea <span style="white-space:nowrap;font-size:12px;color:#707884;" title="Forecast high/low">☀&thinsp;50°</span> <span style="font-size:12px;color:#707884;"><span style="white-space:nowrap;">🌊 6 ft</span> &middot; <span style="white-space:nowrap;">💨 NE 5 kt</span> &middot; <span style="white-space:nowrap;">🚢 15.5 kn</span></span></td><td style="padding:7px 8px;vertical-align:top;">Molde <span style="white-space:nowrap;font-size:12px;color:#707884;" title="Forecast high/low">☀&thinsp;49°/38°</span> <span style="font-size:13px;color:#707884;">(10/19 11pm)</span></td></tr>
+<tr bgcolor="#eef0f3" style="background-color:#eef0f3;"><td width="18" style="padding:7px 0 7px 8px;vertical-align:top;width:18px;color:#1a9a9a;font-size:18px;">&nbsp;</td><td style="padding:7px 8px;vertical-align:top;"><b style="color:#1d3a6b;">Sky</b></td><td style="padding:7px 8px;vertical-align:top;">Molde <span style="white-space:nowrap;font-size:12px;color:#707884;" title="Forecast high/low">☀&thinsp;47°</span> <span style="font-size:13px;color:#707884;">(9am)</span></td><td style="padding:7px 8px;vertical-align:top;">Alesund <span style="white-space:nowrap;font-size:12px;color:#707884;" title="Forecast high/low">☀&thinsp;51°/40°</span> <span style="font-size:13px;color:#707884;">(10/20 11pm)</span></td></tr>
 <tr><td colspan="4" style="padding:14px 4px 4px 4px;border-bottom:1px solid #295aa0;font-family:Georgia, 'Times New Roman', Times, serif;font-style:italic;font-weight:bold;font-size:18px;line-height:22px;color:#295aa0;">tahiti &amp; south pacific</td></tr>
-<tr bgcolor="#eef0f3" style="background-color:#eef0f3;"><td width="18" style="padding:7px 0 7px 8px;vertical-align:top;width:18px;color:#1a9a9a;font-size:18px;">&nbsp;</td><td style="padding:7px 8px;vertical-align:top;"><b style="color:#1d3a6b;">Grand</b></td><td style="padding:7px 8px;vertical-align:top;">At Sea <span style="white-space:nowrap;font-size:12px;color:#707884;" title="Forecast high/low">🌙&thinsp;80°</span> <span style="font-size:12px;color:#707884;"><span style="white-space:nowrap;">🌊 8 ft</span> &middot; <span style="white-space:nowrap;">💨 SE 20 kt</span> &middot; <span style="white-space:nowrap;">🚢 17.9 kn</span></span></td><td style="padding:7px 8px;vertical-align:top;">Apia <span style="white-space:nowrap;font-size:12px;color:#707884;" title="Forecast high/low">🌦&thinsp;80°/72°</span> <span style="font-size:13px;color:#707884;">(10/20 12pm)</span></td></tr>
+<tr bgcolor="#eef0f3" style="background-color:#eef0f3;"><td width="18" style="padding:7px 0 7px 8px;vertical-align:top;width:18px;color:#1a9a9a;font-size:18px;">&nbsp;</td><td style="padding:7px 8px;vertical-align:top;"><b style="color:#1d3a6b;">Grand</b></td><td style="padding:7px 8px;vertical-align:top;">At Sea <span style="white-space:nowrap;font-size:12px;color:#707884;" title="Forecast high/low">☁&thinsp;80°</span> <span style="font-size:12px;color:#707884;"><span style="white-space:nowrap;">🌊 7 ft</span> &middot; <span style="white-space:nowrap;">💨 SE 18 kt</span> &middot; <span style="white-space:nowrap;">🚢 14.9 kn</span></span></td><td style="padding:7px 8px;vertical-align:top;">Apia <span style="white-space:nowrap;font-size:12px;color:#707884;" title="Forecast high/low">🌦&thinsp;80°/72°</span> <span style="font-size:13px;color:#707884;">(10/20 12pm)</span></td></tr>
 </table>
 <div style="font-family:Helvetica, Arial, sans-serif;font-size:13px;line-height:18px;color:#707884;padding:8px 4px 0 4px;"><span style="color:#d6a214;">&#9733;</span> = maiden call (a ship’s first-ever visit to that port)<br>Maiden calls ahead: <b style="color:#966c00;">Star – Celebration Key 11/1</b></div>
 </td></tr>
 <tr><td align="center" style="padding:22px 20px 6px 20px;font-family:Georgia, 'Times New Roman', Times, serif;font-style:italic;font-size:17px;line-height:24px;color:#295aa0;text-align:center;">“Bon voyage!”</td></tr>
-<tr><td align="center" style="padding:2px 20px 24px 20px;font-family:Helvetica, Arial, sans-serif;font-size:12px;line-height:18px;color:#707884;text-align:center;">Fleet positions from Pavlus AIS plus published schedules. Dates/times PT; ~ = AIS estimate.<br>Page updated 10/20/26 7:00am PT after each fleet check-in.</td></tr>
+<tr><td align="center" style="padding:2px 20px 24px 20px;font-family:Helvetica, Arial, sans-serif;font-size:12px;line-height:18px;color:#707884;text-align:center;">Fleet positions from Pavlus AIS plus published schedules. Dates/times PT; ~ = AIS estimate.<br>Page updated 10/20/26 8:00am PT after each fleet check-in.</td></tr>
 </table></td></tr></table></body></html>
